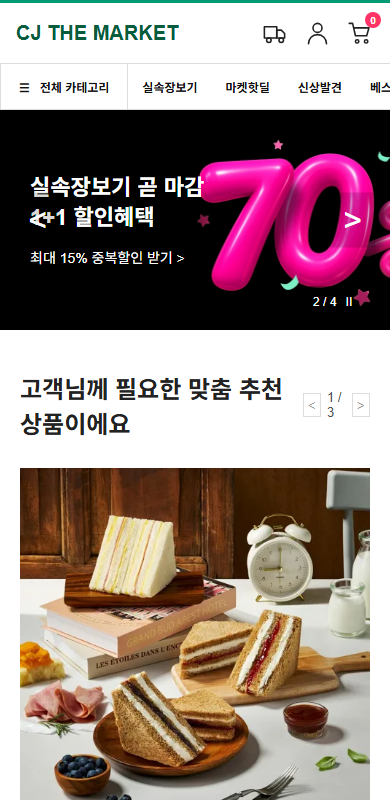
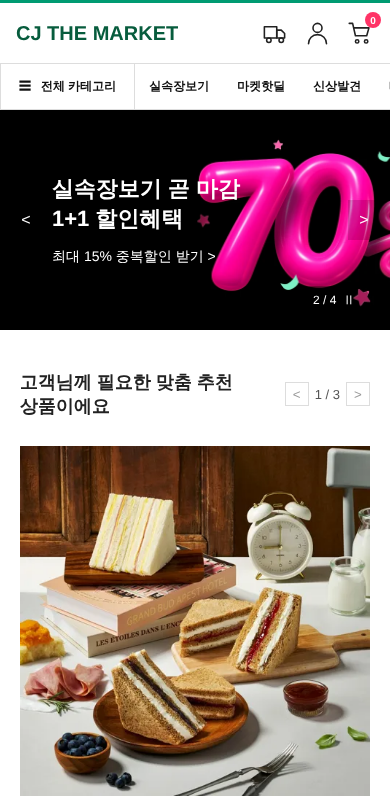
모바일 추천 상품 제목 줄바꿈 정리, 모바일 캡처 교체
Claude-Session: https://claude.ai/code/session_01XLu5HvCqecmC455N9K7RJK

diff --git a/css/mobile.css b/css/mobile.css
@@ -117,8 +117,20 @@
     margin: 40px auto 60px;
   }
 
+  /* 제목은 단어 단위로 줄바꿈하고, 페이지 버튼은 한 줄로 고정 */
+  .toppick-section .section-title {
+    gap: 12px;
+  }
+
   .toppick-section .section-title h2 {
-    font-size: 24px;
+    min-width: 0;
+    font-size: 18px;
+    word-break: keep-all;
+  }
+
+  .page-btn {
+    flex-shrink: 0;
+    white-space: nowrap;
   }
 
   /* 모바일에서는 상품 하나씩 */
